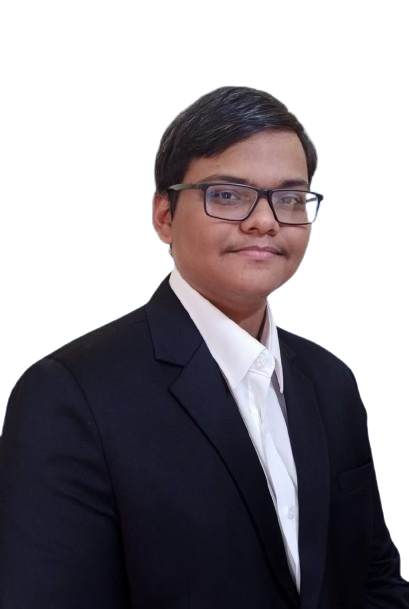
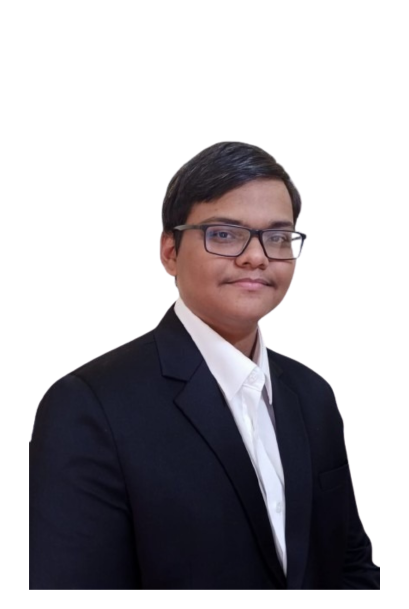
main

Changed region(s): [[0.0, 0.1248, 1.0, 1.0], [0.4108, 0.5928, 0.4401, 0.624]]

diff --git a/index.html b/index.html
@@ -4,6 +4,7 @@
     <title>Nachiket Palekar</title>
     <meta charset="utf-8">
     <meta name="viewport" content="width=device-width, initial-scale=1, shrink-to-fit=no">
+	<link rel="stylesheet" href="https://cdnjs.cloudflare.com/ajax/libs/font-awesome/6.4.2/css/all.min.css">
     
     <link href="https://fonts.googleapis.com/css?family=Poppins:100,200,300,400,500,600,700,800,900" rel="stylesheet">
 
@@ -39,8 +40,8 @@
 	          <li class="nav-item"><a href="#resume-section" class="nav-link"><span>Resume</span></a></li>
 	          <li class="nav-item"><a href="#services-section" class="nav-link"><span>Services</span></a></li>
 	          <li class="nav-item"><a href="#skills-section" class="nav-link"><span>Skills</span></a></li>
-	          <!-- <li class="nav-item"><a href="#projects-section" class="nav-link"><span>Projects</span></a></li>
-	          <li class="nav-item"><a href="#blog-section" class="nav-link"><span>My Blog</span></a></li> -->
+	          <li class="nav-item"><a href="#projects-section" class="nav-link"><span>Projects</span></a></li>
+	          <!-- <li class="nav-item"><a href="#blog-section" class="nav-link"><span>My Blog</span></a></li> -->
 	          <li class="nav-item"><a href="#contact-section" class="nav-link"><span>Contact</span></a></li>
 	        </ul>
 	      </div>
@@ -60,7 +61,7 @@
 		          		<span class="subheading">Hello!</span>
 			            <h1 class="mb-4 mt-3">I'm <span>Nachiket Palekar</span></h1>
 			            <h2 class="mb-4">A Web &amp; Mobile App developer</h2>
-			            <p><a href="#" class="btn btn-primary py-3 px-4">Hire me</a> <!--<a href="#" class="btn btn-white btn-outline-white py-3 px-4">My works</a>--></p>
+			            <p><a href="#contact-section" class="btn btn-primary py-3 px-4">Hire me</a> <!--<a href="#" class="btn btn-white btn-outline-white py-3 px-4">My works</a>--></p>
 		            </div>
 		          </div>
 	        	</div>
@@ -75,7 +76,7 @@
     			<div class="col-md-6 col-lg-5 d-flex">
     				<div class="img-about img d-flex align-items-stretch">
     					<div class="overlay"></div>
-	    				<div class="img d-flex align-self-stretch align-items-center" style="background-image:url(images/bg_1.png);">
+	    				<div class="img d-flex align-self-stretch align-items-center" style="background-image:url(images/Untitled\ \(409\ x\ 609\ px\).png);">
 	    				</div>
     				</div>
     			</div>
@@ -88,7 +89,7 @@
 		            <ul class="about-info mt-4 px-md-0 px-2">
 		            	<li class="d-flex"><span>Name:</span> <span>Nachiket Palekar</span></li>
 		            	<li class="d-flex"><span>Date of birth:</span> <span>13/11/2004</span></li>
-		            	<li class="d-flex"><span>Address:</span> <span>Maharashtra,India</span></li>
+		            	<li class="d-flex"><span>Address:</span> <span>Mumbai,Maharashtra,India</span></li>
 		            	<li class="d-flex"><span>Email:</span> <span>nachiketpalekar@gmail.com</span></li>
 		            	<li class="d-flex"><span>Phone: </span> <span>+91-9011033889</span></li>
 		            </ul>
@@ -96,7 +97,7 @@
 		        </div>
 	          <div class="counter-wrap ftco-animate d-flex mt-md-3">
               <div class="text">
-                <p><a href="#" class="btn btn-primary py-3 px-3">Download CV</a></p>
+                <p><a href="https://drive.google.com/uc?export=download&id=14bZkJVSdPvG8ANpI_MhnqxPDpdOiVVfn" target="_blank" class="btn btn-primary py-3 px-3">Download CV</a></p>
               </div>
 	          </div>
 	        </div>
@@ -110,7 +111,7 @@
           <div class="col-md-10 heading-section text-center ftco-animate">
           	<h1 class="big big-2">Resume</h1>
             <h2 class="mb-4">Resume</h2>
-            <p>A small river named Duden flows by their place and supplies it with the necessary regelialia. It is a paradisematic country, in which roasted parts of sentences fly into your mouth.</p>
+            <!-- <p>A small river named Duden flows by their place and supplies it with the necessary regelialia. It is a paradisematic country, in which roasted parts of sentences fly into your mouth.</p> -->
           </div>
         </div>
     		<div class="row">
@@ -150,7 +151,7 @@
     		</div>
     		<div class="row justify-content-center mt-5">
     			<div class="col-md-6 text-center ftco-animate">
-    				<p><a href="#" class="btn btn-primary py-4 px-5">Download CV</a></p>
+    				<p><a href="https://drive.google.com/uc?export=download&id=14bZkJVSdPvG8ANpI_MhnqxPDpdOiVVfn" target="_blank" class="btn btn-primary py-3 px-3">Download CV</a></p>
     			</div>
     		</div>
     	</div>
@@ -167,27 +168,27 @@
         </div>
     		<div class="row">
 					<div class="col-md-4 text-center d-flex ftco-animate">
-						<a href="#" class="services-1">
+						<a href="#contact-section" class="services-1">
 							<span class="icon">
-								<i class="flaticon-analysis"></i>
+								<i class="fas fa-mobile-alt"></i>
 							</span>
 							<div class="desc">
-								<h3 class="mb-5">Web Design</h3>
+								<h3 class="mb-5">Web Designer</h3>
 							</div>
 						</a>
 					</div>
 					<div class="col-md-4 text-center d-flex ftco-animate">
-						<a href="#" class="services-1">
+						<a href="#contact-section" class="services-1">
 							<span class="icon">
-								<i class="flaticon-flasks"></i>
+								<i class="fas fa-film"></i>
 							</span>
 							<div class="desc">
-								<h3 class="mb-5">Phtography</h3>
+								<h3 class="mb-5">Video Editing</h3>
 							</div>
 						</a>
 					</div>
 					<div class="col-md-4 text-center d-flex ftco-animate">
-						<a href="#" class="services-1">
+						<a href="#contact-section" class="services-1">
 							<span class="icon">
 								<i class="flaticon-ideas"></i>
 							</span>
@@ -197,8 +198,8 @@
 						</a>
 					</div>
 
-					<div class="col-md-4 text-center d-flex ftco-animate">
-						<a href="#" class="services-1">
+					<div class="col-md text-center d-flex ftco-animate">
+						<a href="#contact-section" class="services-1">
 							<span class="icon">
 								<i class="flaticon-analysis"></i>
 							</span>
@@ -207,27 +208,7 @@
 							</div>
 						</a>
 					</div>
-					<div class="col-md-4 text-center d-flex ftco-animate">
-						<a href="#" class="services-1">
-							<span class="icon">
-								<i class="flaticon-flasks"></i>
-							</span>
-							<div class="desc">
-								<h3 class="mb-5">Branding</h3>
-							</div>
-						</a>
-					</div>
-					<div class="col-md-4 text-center d-flex ftco-animate">
-						<a href="#" class="services-1">
-							<span class="icon">
-								<i class="flaticon-ideas"></i>
-							</span>
-							<div class="desc">
-								<h3 class="mb-5">Product Strategy</h3>
-							</div>
-						</a>
-					</div>
-				</div>
+					
     	</div>
     </section>
 
@@ -322,7 +303,12 @@
             <p>Far far away, behind the word mountains, far from the countries Vokalia and Consonantia</p>
           </div>
         </div>
-    		<div class="row">
+		<div class="row">
+			<div class="col-md">
+				<p>For Project Please Visit Github Profile: &nbsp; <a href="https://github.com/Nachiket1311" target="_blank"><i class="fab fa-github"></i> <b>Nachiket1311</b> </a></p>
+			</div>
+		</div>
+    		<!-- <div class="row">
     			<div class="col-md-4">
     				<div class="project img ftco-animate d-flex justify-content-center align-items-center" style="background-image: url(images/project-4.jpg);">
     					<div class="overlay"></div>
@@ -381,12 +367,12 @@
 	    				</div>
     				</div>
     			</div>
-    		</div>
+    		</div> -->
     	</div>
     </section>
 
 
-    <section class="ftco-section" id="blog-section">
+    <!-- <section class="ftco-section" id="blog-section">
       <div class="container">
         <div class="row justify-content-center mb-5 pb-5">
           <div class="col-md-7 heading-section text-center ftco-animate">
@@ -449,9 +435,9 @@
           </div>
         </div>
       </div>
-    </section>
+    </section> -->
 
-    <section class="ftco-section ftco-no-pt ftco-no-pb ftco-counter img" id="section-counter">
+    <!-- <section class="ftco-section ftco-no-pt ftco-no-pb ftco-counter img" id="section-counter">
     	<div class="container">
 				<div class="row d-md-flex align-items-center">
           <div class="col-md d-flex justify-content-center counter-wrap ftco-animate">
@@ -488,7 +474,7 @@
           </div>
         </div>
       </div>
-    </section>
+    </section> -->
 
     <section class="ftco-section ftco-hireme img margin-top" style="background-image: url(images/bg_1.jpg)">
 			<div class="container">
@@ -496,7 +482,8 @@
 					<div class="col-md-7 ftco-animate text-center">
 						<h2>I'm <span>Available</span> for freelancing</h2>
 						<p>A small river named Duden flows by their place and supplies it with the necessary regelialia.</p>
-						<p class="mb-0"><a href="#" class="btn btn-primary py-3 px-5">Hire me</a></p>
+						<!-- <a href="#contact-section" class="btn btn-primary py-3 px-5" ><p class="mb-0">Hire me</p></a> -->
+						<!-- <a href="#contact-section"><button class="btn btn-primary py-3 px-5">Hire me</button></a> -->
 					</div>
 				</div>
 			</div>
@@ -519,7 +506,7 @@
           			<span class="icon-map-signs"></span>
           		</div>
           		<h3 class="mb-4">Address</h3>
-	            <p>Suyog Society ,Sant Dnyaneshwar Road, Near, Hanuman Chowk, Mulund East, Mumbai, Maharashtra 400081 </p>
+	            <p>Mumbai,Maharashtra,India</p>
 	          </div>
           </div>
           <div class="col-md-6 col-lg-3 d-flex ftco-animate">
@@ -553,29 +540,35 @@
 
         <div class="row no-gutters block-9">
           <div class="col-md-6 order-md-last d-flex">
-            <form action="https://api.web3forms.com/submit" method="POST" class="bg-light p-4 p-md-5 contact-form">
+			<form action="https://api.web3forms.com/submit" method="POST" class="bg-light p-4 p-md-5 contact-form container shadow rounded">
 				<input type="hidden" name="access_key" value="38bf8c82-cf09-42f5-97d1-9e0e665111f7">
-				<div class="form-group">
-                <input type="text" class="form-control" name="name" placeholder="Your Name">
-              </div>
-              <div class="form-group">
-                <input type="text" class="form-control" name="email" placeholder="Your Email">
-              </div>
-              <div class="form-group">
-                <input type="text" class="form-control" name="Subject" placeholder="Subject">
-              </div>
-              <div class="form-group">
-                <textarea class="form-textarea"   id="message" name="message" placeholder="Message" cols="55" rows="7" ></textarea>
-              </div>
-              <div class="form-group">
-                <input type="submit" value="Send Message" class="btn btn-primary py-3 px-5">
-              </div>
-            </form>
+				
+				<div class="mb-3">
+					<input type="text" class="form-control" name="name" placeholder="Your Name" required>
+				</div>
+				
+				<div class="mb-3">
+					<input type="email" class="form-control" name="email" placeholder="Your Email" required>
+				</div>
+				
+				<div class="mb-3">
+					<input type="text" class="form-control" name="Subject" placeholder="Subject">
+				</div>
+				
+				<div class="mb-3">
+					<textarea class="form-control" id="message" name="message" placeholder="Message" rows="5" required></textarea>
+				</div>
+				
+				<div class="d-grid">
+					<button type="submit" class="btn btn-primary py-3">Send Message</button>
+				</div>
+			</form>
+			
           
           </div>
 
           <div class="col-md-6 d-flex">
-          	<div class="img" style="background-image: url(images/about.jpg);"></div>
+          	<div class="img" style="background-image: url(images/image_1.jpg);"></div>
           </div>
         </div>
       </div>
@@ -588,11 +581,11 @@
           <div class="col-md">
             <div class="ftco-footer-widget mb-4">
               <h2 class="ftco-heading-2">About</h2>
-              <p>Far far away, behind the word mountains, far from the countries Vokalia and Consonantia, there live the blind texts.</p>
+              <p>Exploring the world of web and app development, I craft seamless digital experiences. Beyond coding, I dive into video editing, blending creativity with technology.</p>
               <ul class="ftco-footer-social list-unstyled float-md-left float-lft mt-5">
-                <li class="ftco-animate"><a href="#"><span class="icon-twitter"></span></a></li>
-                <li class="ftco-animate"><a href="#"><span class="icon-facebook"></span></a></li>
-                <li class="ftco-animate"><a href="#"><span class="icon-instagram"></span></a></li>
+                <li class="ftco-animate"><a href="https://in.linkedin.com/in/nachiket-palekar"><span class="icon-linkedin"></span></a></li>
+                <li class="ftco-animate"><a href="https://wa.me/9011033889"><span class="icon-whatsapp"></span></a></li>
+                <li class="ftco-animate"><a href="https://www.instagram.com/nachiket_palekar/"><span class="icon-instagram"></span></a></li>
               </ul>
             </div>
           </div>
@@ -612,11 +605,11 @@
              <div class="ftco-footer-widget mb-4">
               <h2 class="ftco-heading-2">Services</h2>
               <ul class="list-unstyled">
-                <li><a href="#"><span class="icon-long-arrow-right mr-2"></span>Web Design</a></li>
-                <li><a href="#"><span class="icon-long-arrow-right mr-2"></span>Web Development</a></li>
-                <li><a href="#"><span class="icon-long-arrow-right mr-2"></span>Business Strategy</a></li>
-                <li><a href="#"><span class="icon-long-arrow-right mr-2"></span>Data Analysis</a></li>
-                <li><a href="#"><span class="icon-long-arrow-right mr-2"></span>Graphic Design</a></li>
+                <li><a href="#services-section"><span class="icon-long-arrow-right mr-2"></span>Web Designer</a></li>
+                <li><a href="#services-section"><span class="icon-long-arrow-right mr-2"></span>Web Developer</a></li>
+                <li><a href="#services-section"><span class="icon-long-arrow-right mr-2"></span>Video editor</a></li>
+                <li><a href="#services-section"><span class="icon-long-arrow-right mr-2"></span>App Developer</a></li>
+                <!-- <li><a href="#"><span class="icon-long-arrow-right mr-2"></span>Graphic Design</a></li> -->
               </ul>
             </div>
           </div>
@@ -625,7 +618,7 @@
             	<h2 class="ftco-heading-2">Have a Questions?</h2>
             	<div class="block-23 ">
 	              <ul>
-	                <li><span class="icon icon-map-marker"></span><span class="text">Suyog Society ,Sant Dnyaneshwar Road, Near, Hanuman Chowk, Mulund East, Mumbai, Maharashtra 400081</span></li>
+	                <li><span class="icon icon-map-marker"></span><span class="text">Mumbai,Maharashtra,India</span></li>
 	                <li><a href="#"><span class="icon icon-phone"></span><span class="text">+91-9011033889</span></a></li>
 	                <li><a href="#"><span class="icon icon-envelope"></span><span class="text">nachiketpalekar@gmail.com</span></a></li>
 	              </ul>
